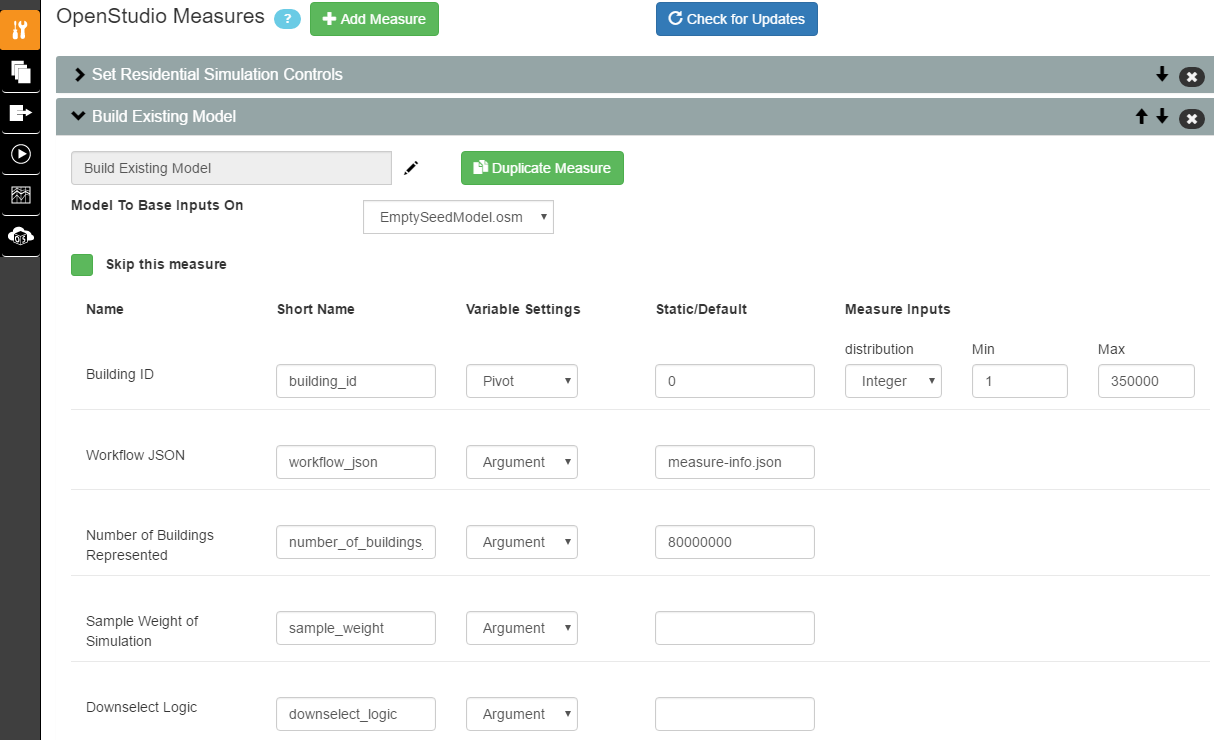
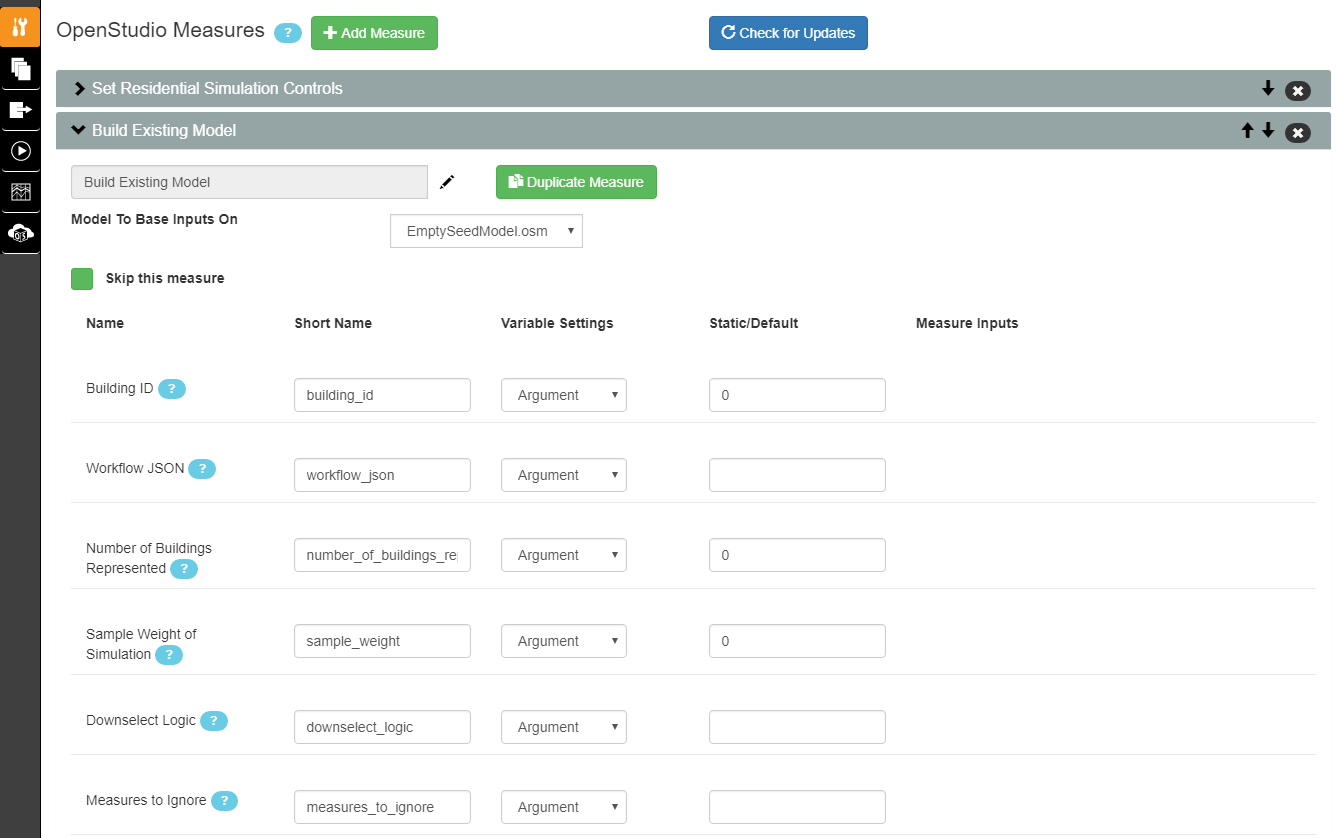
Adjustments to test on Eagle

diff --git a/project_singlefamilydetached/measures/BuildExistingModel/measure.rb b/project_singlefamilydetached/measures/BuildExistingModel/measure.rb
@@ -14,6 +14,9 @@ else
 end
 require File.join(resources_path, "weather")
 
+# in addition to the above requires, this measure is expected to run in an 
+# environment with OpenStudio-Buildstock/resources/buildstock.rb loaded
+
 # start the measure
 class BuildExistingModel < OpenStudio::Measure::ModelMeasure
   # human readable name
@@ -60,6 +63,11 @@ class BuildExistingModel < OpenStudio::Measure::ModelMeasure
     downselect_logic.setDescription("Logic that specifies the subset of the building stock to be considered in the analysis. Specify one or more parameter|option as found in resources\\options_lookup.tsv. When multiple are included, they must be separated by '||' for OR and '&&' for AND, and using parentheses as appropriate. Prefix an option with '!' for not.")
     args << downselect_logic
 
+    measures_to_ignore = OpenStudio::Ruleset::OSArgument.makeStringArgument("measures_to_ignore", false)
+    measures_to_ignore.setDisplayName("Measures to Ignore")
+    measures_to_ignore.setDescription("Measures to exclude from the OpenStudio Workflow specified by listing one or more measure directories separated by '|'. Core ResStock measures cannot be ignored (this measure will fail). INTENDED FOR ADVANCED USERS/WORKFLOW DEVELOPERS.")
+    args << measures_to_ignore
+
     return args
   end
 
@@ -77,7 +85,7 @@ class BuildExistingModel < OpenStudio::Measure::ModelMeasure
     number_of_buildings_represented = runner.getOptionalIntegerArgumentValue("number_of_buildings_represented", user_arguments)
     sample_weight = runner.getOptionalDoubleArgumentValue("sample_weight", user_arguments)
     downselect_logic = runner.getOptionalStringArgumentValue("downselect_logic", user_arguments)
-    sample_weight = runner.getOptionalDoubleArgumentValue("sample_weight", user_arguments)
+    measures_to_ignore = runner.getOptionalStringArgumentValue("measures_to_ignore", user_arguments)
 
     # Get file/dir paths
     resources_dir = File.absolute_path(File.join(File.dirname(__FILE__), "..", "..", "lib", "resources")) # Should have been uploaded per 'Additional Analysis Files' in PAT
@@ -106,15 +114,15 @@ class BuildExistingModel < OpenStudio::Measure::ModelMeasure
     # Retrieve order of parameters to run
     parameters_ordered = get_parameters_ordered_from_options_lookup_tsv(lookup_file, characteristics_dir)
 
-    # Obtain measures and arguments to be called
-    measures = {}
+    # Retrieve options that have been selected for this building_id
     parameters_ordered.each do |parameter_name|
-      # Get measure name and arguments associated with the option
+      # Register the option chosen for parameter_name with the runner
       option_name = bldg_data[parameter_name]
       register_value(runner, parameter_name, option_name)
     end
 
-    # Do the downselecting
+    # Determine whether this building_id has been downselected based on the 
+    # {parameter_name: option_name} pairs
     if downselect_logic.is_initialized
 
       downselect_logic = downselect_logic.get
@@ -122,6 +130,7 @@ class BuildExistingModel < OpenStudio::Measure::ModelMeasure
       downselected = evaluate_logic(downselect_logic, runner, past_results = false)
 
       if downselected.nil?
+        # unable to evaluate logic
         return false
       end
 
@@ -133,7 +142,9 @@ class BuildExistingModel < OpenStudio::Measure::ModelMeasure
       end
 
     end
-
+    
+    # Obtain measures and arguments to be called
+    measures = {}
     parameters_ordered.each do |parameter_name|
       option_name = bldg_data[parameter_name]
       print_option_assignment(parameter_name, option_name, runner)
@@ -153,6 +164,24 @@ class BuildExistingModel < OpenStudio::Measure::ModelMeasure
     elsif ["Multi-Family with 2 - 4 Units", "Multi-Family with 5+ Units"].include? bldg_data["Geometry Building Type"]
       measures.delete("ResidentialGeometryCreateSingleFamilyDetached")
       measures.delete("ResidentialGeometryCreateSingleFamilyAttached")
+    end
+
+    # Remove any measures_to_ignore from the list of measures to run
+    if measures_to_ignore.is_initialized
+      measures_to_ignore = measures_to_ignore.get
+      # core ResStock measures are those specified in the default workflow json
+      # those should not be ignored ...
+      core_measures = get_measures(File.join(resources_dir, 'measure-info.json'))
+      measures_to_ignore.split("|").each do |measure_dir|
+        if core_measures.include? measure_dir
+          # fail if core ResStock measure is ignored
+          msg = "Core ResStock measure #{measure_dir} cannot be ignored"
+          runner.registerError(msg)
+          fail msg
+        end
+        runner.registerInfo("Ignoring/not running measure #{measure_dir}")
+        measures.delete(measure_dir)
+      end
     end
 
     if not apply_measures(measures_dir, measures, runner, model, workflow_json, "measures.osw", true)

diff --git a/measures/BuildExistingModel/measure.rb b/measures/BuildExistingModel/measure.rb
@@ -65,7 +65,7 @@ class BuildExistingModel < OpenStudio::Measure::ModelMeasure
 
     measures_to_ignore = OpenStudio::Ruleset::OSArgument.makeStringArgument("measures_to_ignore", false)
     measures_to_ignore.setDisplayName("Measures to Ignore")
-    measures_to_ignore.setDescription("List of measures to exclude from the OpenStudio Workflow. Specify one or more measure directories separated by '|'.")
+    measures_to_ignore.setDescription("Measures to exclude from the OpenStudio Workflow specified by listing one or more measure directories separated by '|'. Core ResStock measures cannot be ignored (this measure will fail). INTENDED FOR ADVANCED USERS/WORKFLOW DEVELOPERS.")
     args << measures_to_ignore
 
     return args
@@ -169,7 +169,16 @@ class BuildExistingModel < OpenStudio::Measure::ModelMeasure
     # Remove any measures_to_ignore from the list of measures to run
     if measures_to_ignore.is_initialized
       measures_to_ignore = measures_to_ignore.get
+      # core ResStock measures are those specified in the default workflow json
+      # those should not be ignored ...
+      core_measures = get_measures(File.join(resources_dir, 'measure-info.json'))
       measures_to_ignore.split("|").each do |measure_dir|
+        if core_measures.include? measure_dir
+          # fail if core ResStock measure is ignored
+          msg = "Core ResStock measure #{measure_dir} cannot be ignored"
+          runner.registerError(msg)
+          fail msg
+        end
         runner.registerInfo("Ignoring/not running measure #{measure_dir}")
         measures.delete(measure_dir)
       end

diff --git a/resources/meta_measure.rb b/resources/meta_measure.rb
@@ -1,5 +1,20 @@
 # Helper methods related to having a meta-measure
 
+def get_measures(workflow_json, include_only = nil)
+  result = []
+  JSON.parse(File.read(measure_info_json), :symbolize_names => true).each do |group|
+    group[:group_steps].each do |step|
+      step[:measures].each do |measure_dir|
+        if (not include_only.nil?) and (not include_only.include? measure_dir)
+          next
+        end
+        result << measure_dir
+      end
+    end
+  end
+  return result
+end
+
 def apply_measures(measures_dir, measures, runner, model, workflow_json = nil, osw_out = nil, show_measure_calls = true)
   require 'openstudio'
 
@@ -10,15 +25,8 @@ def apply_measures(measures_dir, measures, runner, model, workflow_json = nil, o
     end
   else
     # Run measures in the order dictated by the json instead
-    JSON.parse(File.read(workflow_json), :symbolize_names => true).each do |group|
-      group[:group_steps].each do |step|
-        step[:measures].each do |measure_subdir|
-          next unless measures.keys.include? measure_subdir
-
-          workflow_order << measure_subdir
-        end
-      end
-    end
+    workflow_order = get_measures(workflow_json, include_only = measures.keys)
+    
     # Tack additional measure not found in workflow_json on the end
     measures.keys.each do |measure_subdir|
       next if workflow_order.include? measure_subdir

diff --git a/docs/read_the_docs/source/tutorial/setup_analysis_project.rst b/docs/read_the_docs/source/tutorial/setup_analysis_project.rst
@@ -146,6 +146,9 @@ This measure creates the baseline scenario. It incrementally applies OpenStudio 
 **Downselect Logic**
   Logic that specifies the subset of the building stock to be considered in the analysis. Specify one or more ``parameter|option`` as found in the ``resources/options_lookup.tsv``. (This uses the same syntax as the :ref:`tutorial-apply-upgrade` measure.) For example, if you wanted to only simulate California homes you could enter ``Location Region|CR11`` in this field (CR refers to "Custom Region", which is based on RECS 2009 reportable domains aggregated into groups with similar climates; see the entire `custom region map`_). Datapoints that are excluded from the downselect logic will result in "completed invalid workflow".
 
+**Measures to Ignore**
+  **INTENDED FOR ADVANCED USERS/WORKFLOW DEVELOPERS ONLY.** Measures to exclude from the OpenStudio Workflow specified by listing one or more measure directories separated by '|'. Core ResStock measures cannot be ignored (the Build Existing Model measure will fail).
+
 .. _custom region map: https://github.com/NREL/OpenStudio-BuildStock/wiki/Custom-Region-(CR)-Map
 
 .. note::
